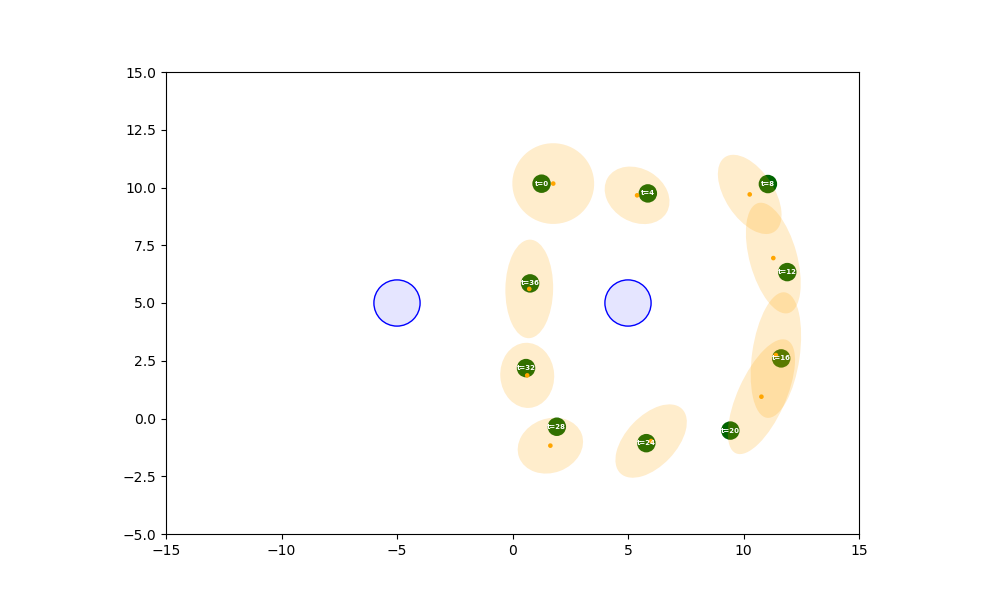
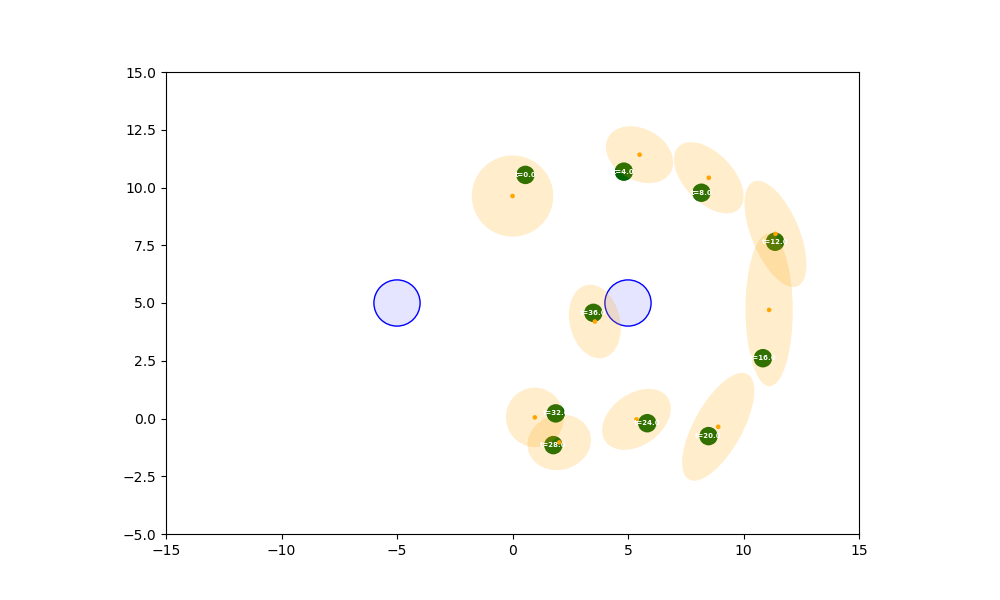
prob1 fixed?

Changed region(s): [[0.465, 0.21, 0.806, 0.81]]

diff --git a/hw2/prob1.py b/hw2/prob1.py
@@ -5,10 +5,12 @@ from matplotlib.patches import Circle, Ellipse
 class EKFSim():
     def __init__(self):
         self.t = 0
+        self.max_t = 40
+        self.dt = 0.5
 
         # Initial States
         self.true_pos = np.array([[0,10]]).T
-        self.landmarks = np.array([[5,5],[-5, 5]]) #[(l_1x,l_1y), l_2x, l2_y)]
+        self.landmarks = np.array([[5,5],[-5, 5]]) #[[l_1x,l_1y], [l_2x, l2_y]]
 
         self.estim_pos = np.array([[0,10]]).T # Column Vector for Position        
 
@@ -18,13 +20,21 @@ class EKFSim():
         self.Q = 0.5 * np.eye(2) # Measurement Uncertainty
 
         self.true_pos_history = []
-        self.prior_pos_history = []
         self.estim_pos_history = []
         self.estim_sigma_history = []
 
     def update_true_pos(self, t):
+        '''
+        This function keeps track of the true position of the robot (unknown to the actual robot)
+
+        Args:
+            t (int): current timestep
+
+        Returns:
+            self.true_pos (2,): updated true position
+        '''
         process_noise = np.random.multivariate_normal(np.zeros(2), self.R).reshape(-1, 1)
-        self.true_pos = self.true_pos + self.get_vel(t) + process_noise
+        self.true_pos = self.true_pos + (self.get_vel(t) * self.dt) + process_noise
 
     
     def measurment_model(self, pos, noisy:bool):
@@ -54,7 +64,7 @@ class EKFSim():
 
     
     def state_propagation_step(self, pos, t):
-        dead_rek_pos = pos + self.get_vel(t)
+        dead_rek_pos = pos + (self.get_vel(t) * self.dt)
         dead_rek_sigma = self.estim_sigma + self.R
         return dead_rek_pos, dead_rek_sigma
 
@@ -89,11 +99,13 @@ class EKFSim():
             raise Exception
         
     def run(self):
-        for t in range(1, 41):
+        for i in range(int(self.max_t/self.dt)):
+            self.t += 0.5 # Update current time
+
             # Update True Position
-            self.update_true_pos(t)
+            self.update_true_pos(self.t)
             # State Propagation
-            dead_rek_pos, dead_rek_sigma = self.state_propagation_step(self.estim_pos, t)
+            dead_rek_pos, dead_rek_sigma = self.state_propagation_step(self.estim_pos, self.t)
             # Correction Step
             self.correction_step(dead_rek_pos,dead_rek_sigma)
 
@@ -126,7 +138,7 @@ class EKFSim():
 
                 return major, minor, angle
 
-        for i in range(0, self.true_pos_history.shape[0], 4): # Intervals of t=5
+        for i in range(0, self.true_pos_history.shape[0], 8): # Intervals of t=5
             true_pos = self.true_pos_history[i]
             estim_pos = self.estim_pos_history[i]
             estim_sigma = self.estim_sigma_history[i]
@@ -140,7 +152,7 @@ class EKFSim():
             ax.add_patch(true_pos_plot)
             ax.text(true_pos[0],  # Label Point with time step
                     true_pos[1], 
-                    f"t={i}",
+                    f"t={i/2}",
                     fontsize=5,
                     fontweight='bold', 
                     color='white',

diff --git a/hw2/prob3.py b/hw2/prob3.py
@@ -128,13 +128,12 @@ class ParticleFilter():
 
         return mean, cov
     
-    def save_stats_to_file(self, mean, cov, time_step, fname):
+    def save_stats_to_file(self, mean, cov, time_step, path):
         """
         Save mean and covariance statistics to a text file
-        """
-        path = os.path.join("stats", fname)
-        
-        with open(fname, 'a') as f:
+        """        
+        with open(path, 'a') as f:
+            f.write("\n")
             f.write(f"Statistics at t={time_step}\n")
             f.write(f"Number of particles: {self.num_samples}\n\n")
             
@@ -151,32 +150,36 @@ class ParticleFilter():
             f.write(f"  σ²_y: {cov[1,1]:.6f}\n")
             f.write(f"  σ_xy: {cov[0,1]:.6f}\n")
 
+            f.write(f"{"_"*50}")
+            f.write("\n")
+
     def plot_particles(self, X_history, time_steps, title, fname):
+        
         # Initalize Plot
         fig, ax = plt.subplots(figsize=(8, 6))
-
         ax.scatter(0,0, label="t=0")
+
+        stats_fname = fname.split('_')[0]+"_stats.txt"
+        stats_path = os.path.join("stats", stats_fname)
+        open(stats_path, 'w').close() # Erase Previous Content
 
         for i in range(X_history.shape[0]):
             X = X_history[i]
 
             mean, cov = self.calculate_stats(X)
-            stats_fname = fname.split('_')[0]+"_stats.txt"
-            self.save_stats_to_file(mean, cov, time_steps[i], stats_fname)
+            self.save_stats_to_file(mean, cov, time_steps[i], stats_path)
 
             x = X[:, 0, 2]
             y = X[:, 1, 2]
             theta = np.arctan2(X[:, 1, 0], X[:, 0, 0])
     
             # Calculate heading direction
-            # dx = np.cos(theta)
-            # dy = np.sin(theta)
+            dx = np.cos(theta)
+            dy = np.sin(theta)
 
             ax.scatter(x, y, label=f"t={time_steps[i]}", alpha=0.1)
-            ax.scatter(mean[0], mean[1], alpha=1, c='black')
-            # ax.quiver(x, y, dx, dy,
-            #     alpha=0.25, scale_units='xy', 
-            #     angles='xy', width=0.003)
+            ax.quiver(x, y, dx, dy, alpha=0.05, scale_units='xy', angles='xy', width=0.003) # Plots Particle Orientation
+            ax.scatter(mean[0], mean[1], alpha=1, c='cyan')
         
         ax.axis('equal')
         ax.grid(True)
